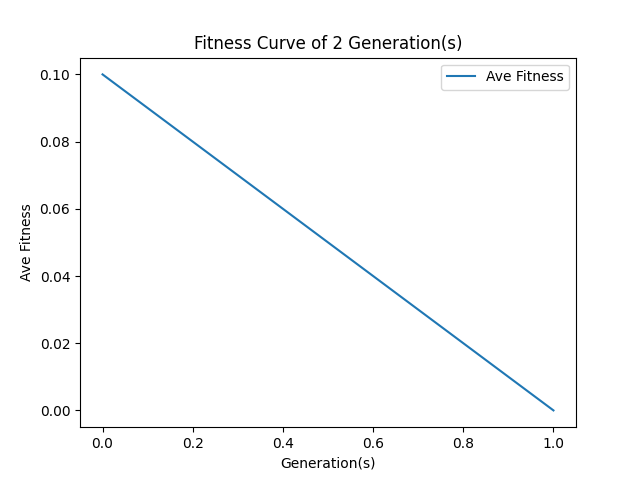
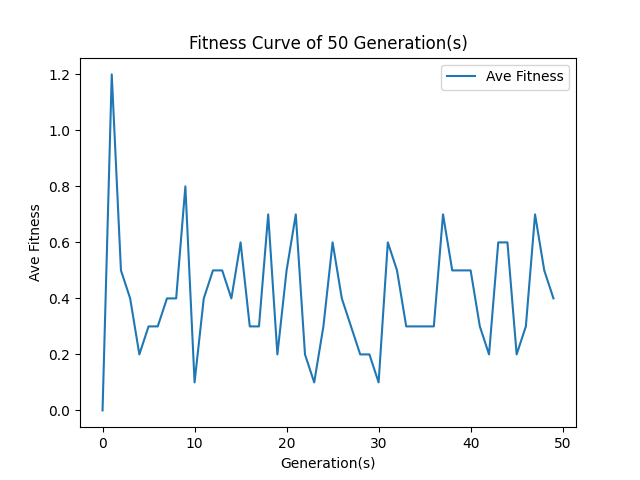
50 generation test result

diff --git a/FB_for_AI/main.py b/FB_for_AI/main.py
@@ -11,7 +11,7 @@ from matplotlib import pyplot as plt
 NUMBER_OF_PLAYERS = 10 
 NUMBER_OF_BEST    = 3
 
-TRAIN_GENERATION = 2
+TRAIN_GENERATION = 50
 
 Fitness_Graph = []
 
